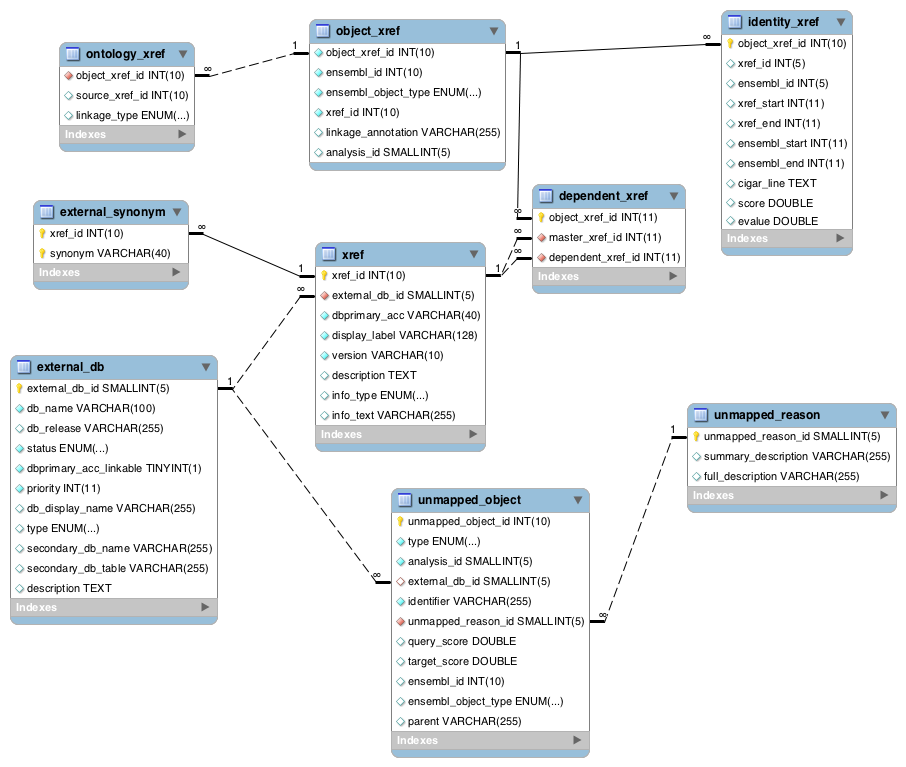
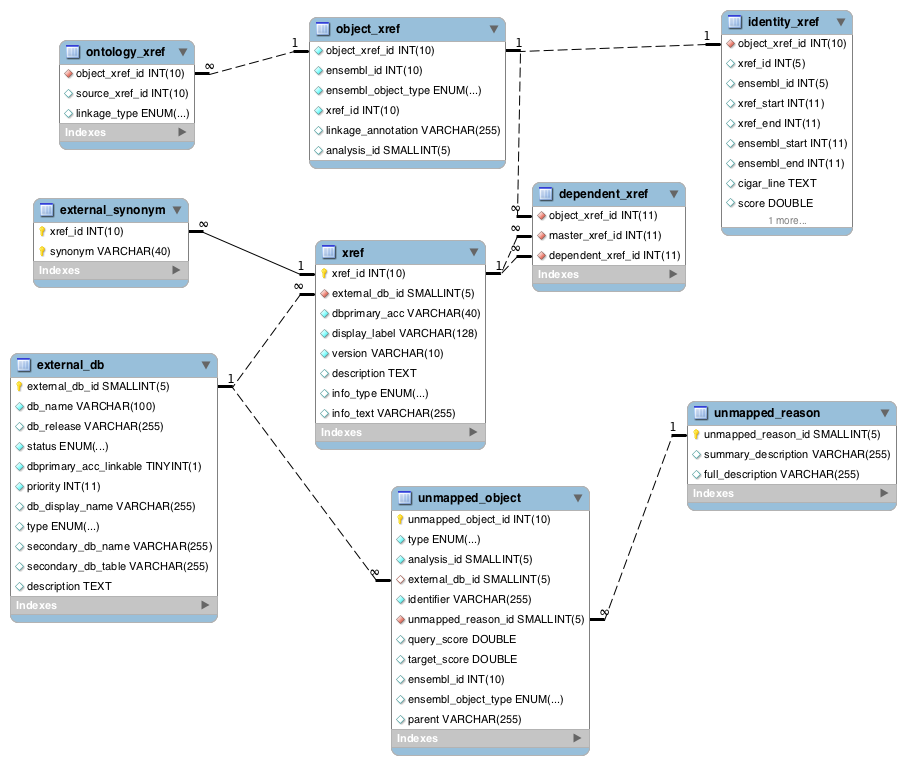
Version 2 of ER diagram drawn using MySQL workbench

diff --git a/htdocs/info/docs/api/core/core_schema.html b/htdocs/info/docs/api/core/core_schema.html
@@ -173,8 +173,9 @@ core schema.
 <hr />
 
 <h2>Fundamental tables</h2>
-<a name="ft_er_diagram"><img src="fundamental_tables.png" alt="Fundamental Tables ER diagram" text="Fundamental Tables ER diagram" /></a>
-
+<a name="ft_er_diagram"><img src="fundamental_tables_1.png" alt="Fundamental Tables ER diagram" text="Fundamental Tables ER diagram" /></a>
+<p>&nbsp;</p>
+<img src="fundamental_tables_2.png" alt="Fundamental Tables ER diagram" text="Fundamental Tables ER diagram" />
 
 
 <h3><a name="assembly">assembly</a></h3>
